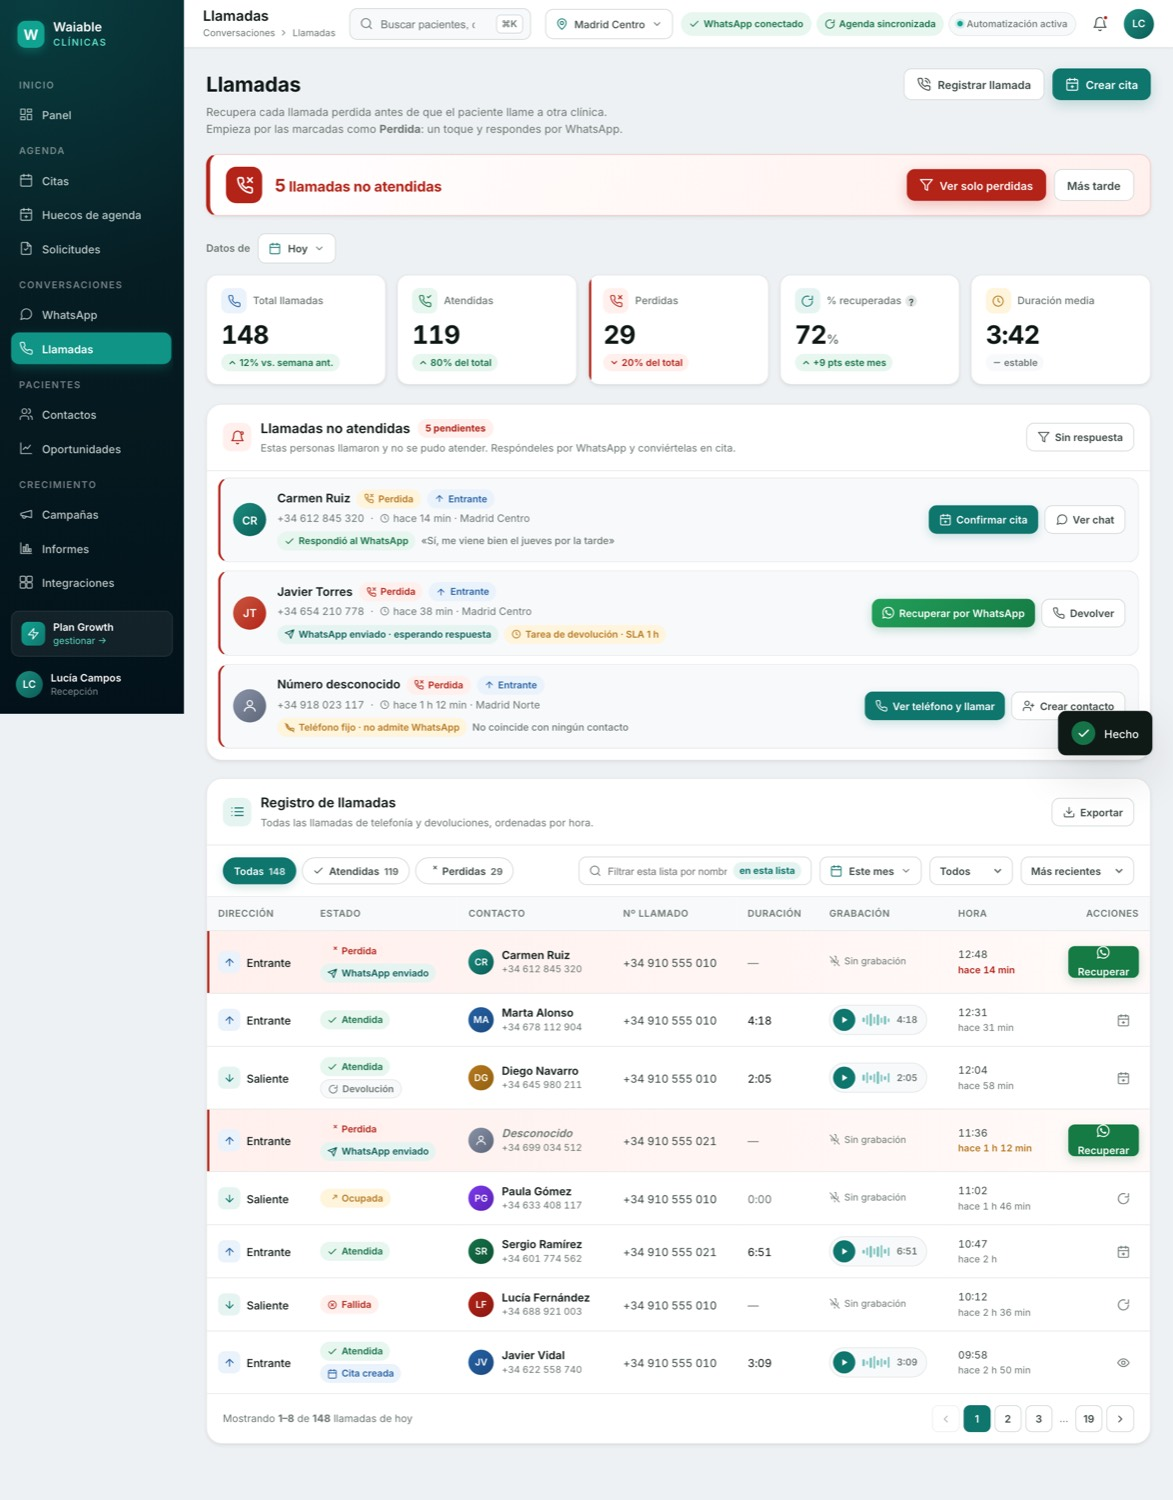
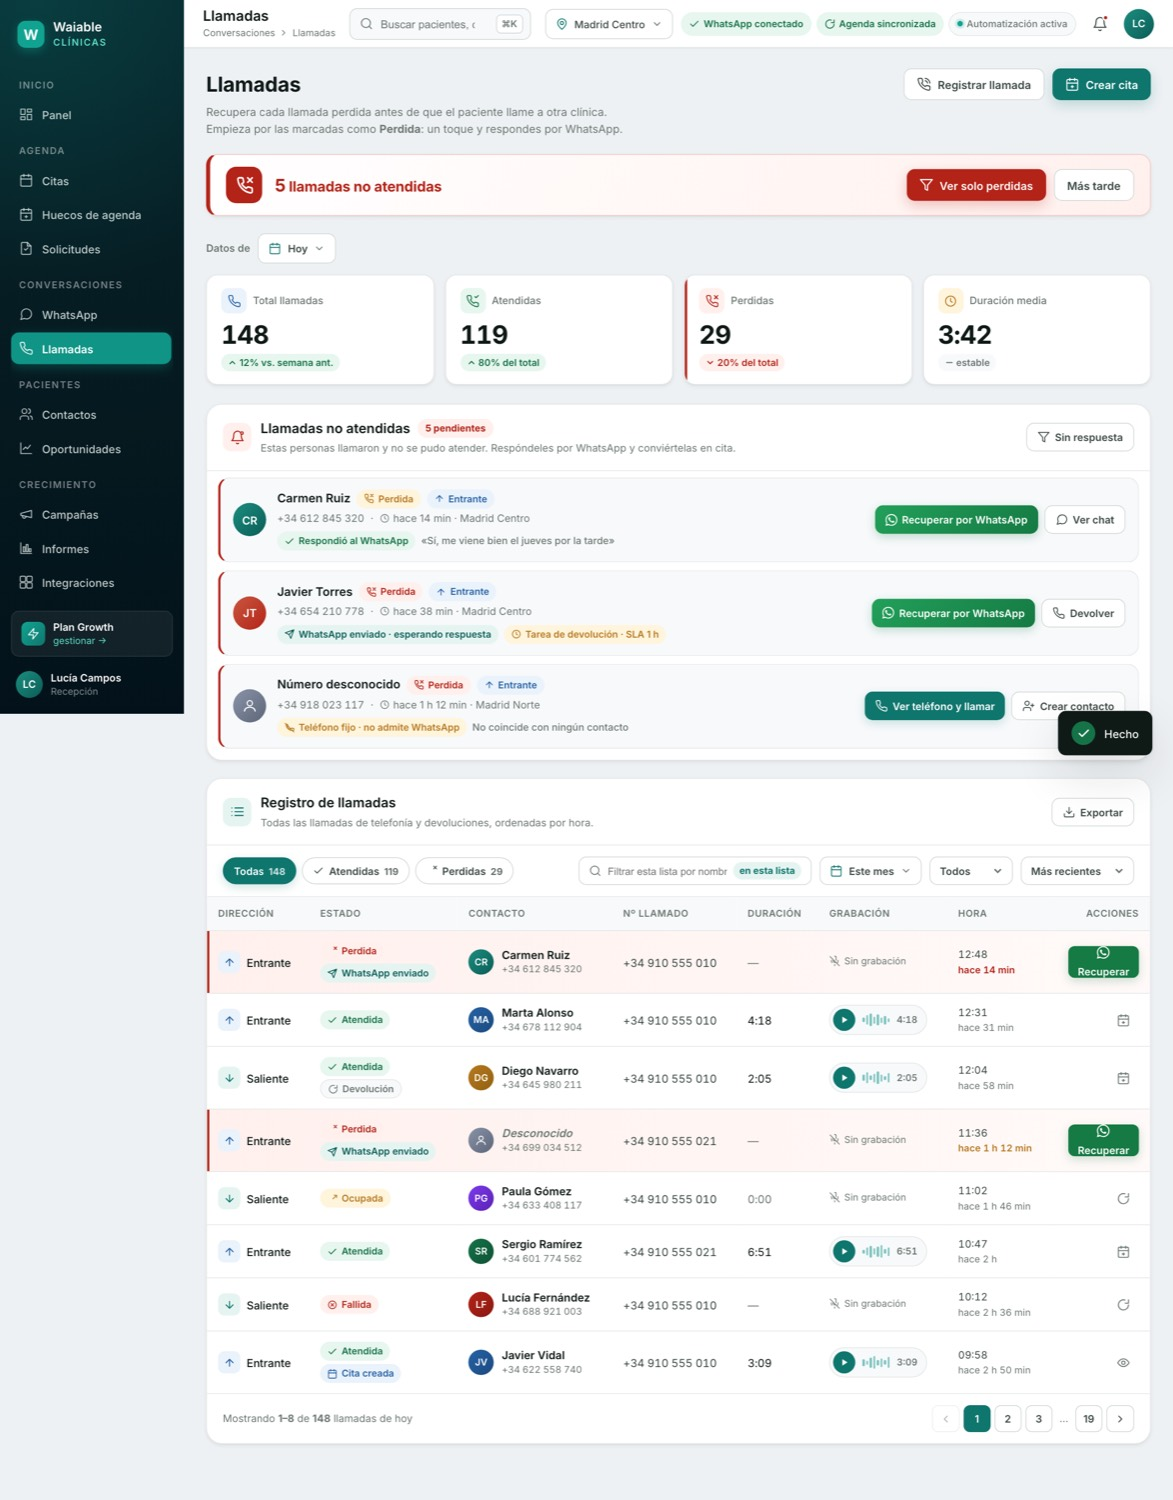
Revision pantallas 01/06 OKI: Llamadas (quitar Confirmar cita->Recuperar por WhatsApp en movil, eliminar KPI '% recuperadas', grid 4 cols); Informes (barra superior blanca coherente con el resto); Config Agenda (quitar pestana Clinica, ya esta el desplegable de sede); Config Usuarios (quitar leyenda

diff --git a/crm/llamadas.html b/crm/llamadas.html
@@ -173,7 +173,7 @@ a{color:inherit;text-decoration:none}
 .btn-pill-light:hover{box-shadow:var(--shadow-sm)}
 
 /* ---------- KPIs ---------- */
-.kpi-grid{display:grid;grid-template-columns:repeat(5,1fr);gap:14px;margin-bottom:24px}
+.kpi-grid{display:grid;grid-template-columns:repeat(4,1fr);gap:14px;margin-bottom:24px}
 .kpi{
   background:var(--surface);border:1px solid var(--line);border-radius:var(--radius);padding:16px 18px;
   box-shadow:var(--shadow-sm);transition:transform .16s ease,box-shadow .16s ease;position:relative;overflow:hidden;
@@ -630,17 +630,6 @@ tbody tr.missed td:first-child{box-shadow:inset 3px 0 0 var(--danger)}
 
         <div class="kpi">
           <div class="kpi-top">
-            <div class="kpi-ic" style="background:var(--primary-soft);color:var(--primary)"><svg viewBox="0 0 24 24" fill="none" stroke="currentColor" stroke-width="1.75" stroke-linecap="round" stroke-linejoin="round"><path d="M21 12a9 9 0 1 1-6.2-8.5"/><path d="M21 3v6h-6"/></svg></div>
-            <span class="kpi-label">% recuperadas
-              <span class="tip"><span class="q">?</span><span class="tip-box">Porcentaje de llamadas perdidas en las que el paciente respondió al WhatsApp automático o devolvió la llamada y acabó atendido.</span></span>
-            </span>
-          </div>
-          <div class="kpi-val" id="kvRecuperadas">72<small>%</small></div>
-          <span class="kpi-delta delta-up"><svg viewBox="0 0 24 24" fill="none" stroke="currentColor" stroke-width="2.5" stroke-linecap="round" stroke-linejoin="round"><path d="m6 15 6-6 6 6"/></svg>+9 pts este mes</span>
-        </div>
-
-        <div class="kpi">
-          <div class="kpi-top">
             <div class="kpi-ic" style="background:var(--warning-soft);color:var(--warning)"><svg viewBox="0 0 24 24" fill="none" stroke="currentColor" stroke-width="1.75" stroke-linecap="round" stroke-linejoin="round"><circle cx="12" cy="12" r="9"/><path d="M12 7v5l3 2"/></svg></div>
             <span class="kpi-label">Duración media</span>
           </div>
@@ -688,9 +677,9 @@ tbody tr.missed td:first-child{box-shadow:inset 3px 0 0 var(--danger)}
               </div>
             </div>
             <div class="ac-actions">
-              <button class="btn-sm p" onclick="toast('Creando cita para Carmen Ruiz…')">
-                <svg viewBox="0 0 24 24" fill="none" stroke="currentColor" stroke-width="1.75" stroke-linecap="round" stroke-linejoin="round"><rect x="3" y="4" width="18" height="18" rx="2"/><path d="M16 2v4M8 2v4M3 10h18M12 14v4M10 16h4"/></svg>
-                Confirmar cita
+              <button class="btn-sm wa btn-recover" onclick="recoverCard(this)" aria-label="Recuperar a Carmen Ruiz por WhatsApp">
+                <svg viewBox="0 0 24 24" fill="currentColor" stroke="none"><path d="M.057 24l1.687-6.163a11.867 11.867 0 0 1-1.587-5.945C.16 5.335 5.495 0 12.05 0a11.82 11.82 0 0 1 8.413 3.488 11.82 11.82 0 0 1 3.48 8.414c-.003 6.557-5.338 11.892-11.893 11.892a11.9 11.9 0 0 1-5.688-1.448L.057 24zm6.597-3.807c1.676.995 3.276 1.591 5.392 1.592 5.448 0 9.886-4.434 9.889-9.885.002-5.462-4.415-9.89-9.881-9.892-5.452 0-9.887 4.434-9.889 9.884a9.82 9.82 0 0 0 1.523 5.262l-.999 3.648 3.665-.961zm11.387-5.464c-.074-.124-.272-.198-.57-.347-.297-.149-1.758-.868-2.031-.967-.272-.099-.47-.149-.669.149-.198.297-.768.967-.941 1.165-.173.198-.347.223-.644.074-.297-.149-1.255-.462-2.39-1.475-.883-.788-1.48-1.761-1.653-2.059-.173-.297-.018-.458.13-.606.134-.133.297-.347.446-.521.151-.172.2-.296.3-.495.099-.198.05-.372-.025-.521-.075-.148-.669-1.611-.916-2.206-.242-.579-.487-.501-.669-.51l-.57-.01c-.198 0-.52.074-.792.372s-1.04 1.016-1.04 2.479 1.065 2.876 1.213 3.074c.149.198 2.095 3.2 5.076 4.487.709.306 1.263.489 1.694.626.712.226 1.36.194 1.872.118.571-.085 1.758-.719 2.006-1.413.248-.695.248-1.29.173-1.414z"/></svg>
+                Recuperar por WhatsApp
               </button>
               <button class="btn-sm s" onclick="toast('Abriendo conversación de WhatsApp…')">
                 <svg viewBox="0 0 24 24" fill="none" stroke="currentColor" stroke-width="1.75" stroke-linecap="round" stroke-linejoin="round"><path d="M21 11.5a8.38 8.38 0 0 1-.9 3.8 8.5 8.5 0 0 1-7.6 4.7 8.38 8.38 0 0 1-3.8-.9L3 21l1.9-5.7a8.38 8.38 0 0 1-.9-3.8 8.5 8.5 0 0 1 4.7-7.6 8.38 8.38 0 0 1 3.8-.9h.5a8.48 8.48 0 0 1 8 8z"/></svg>
@@ -1147,6 +1136,7 @@ tbody tr.missed td:first-child{box-shadow:inset 3px 0 0 var(--danger)}
 
   // Sube el KPI "% recuperadas" visualmente (feedback de progreso)
   function bumpKpi(){
+    return; // KPI '% recuperadas' eliminado
     var el = document.querySelectorAll('.kpi-val')[3];
     if (!el) return;
     var n = parseInt(el.textContent, 10);
@@ -1201,7 +1191,7 @@ tbody tr.missed td:first-child{box-shadow:inset 3px 0 0 var(--danger)}
         menu.classList.remove('open');
         var data=CALL_KPIS[k]; if(!data) return;
         var set=function(id,v){var el=document.getElementById(id); if(el)el.innerHTML=v;};
-        set('kvTotal',data.t); set('kvAtendidas',data.a); set('kvPerdidas',data.p); set('kvRecuperadas',data.r); set('kvDuracion',data.d);
+        set('kvTotal',data.t); set('kvAtendidas',data.a); set('kvPerdidas',data.p); set('kvDuracion',data.d);
         toast('Mostrando datos de: '+k);
       });
     });

diff --git a/ajustes/usuarios.html b/ajustes/usuarios.html
@@ -551,10 +551,6 @@ svg{display:block}
           <p class="subtitle">Suma a tu equipo de recepción para gestionar agenda, llamadas y WhatsApp, y asigna a cada persona el rol con los permisos justos para su trabajo.</p>
         </div>
         <div class="page-head-actions">
-          <a href="#invite" class="btn btn-outline" onclick="event.preventDefault();focusInvite()">
-            <svg viewBox="0 0 24 24" fill="none" stroke="currentColor" stroke-width="2" stroke-linecap="round" stroke-linejoin="round"><path d="M12 5v14M5 12h14"/></svg>
-            Ir al formulario
-          </a>
           <button class="btn btn-primary btn-lg" onclick="openInviteModal()">
             <svg viewBox="0 0 24 24" fill="none" stroke="currentColor" stroke-width="2" stroke-linecap="round" stroke-linejoin="round"><path d="M16 21v-2a4 4 0 0 0-4-4H6a4 4 0 0 0-4 4v2"/><circle cx="9" cy="7" r="4"/><line x1="19" y1="8" x2="19" y2="14"/><line x1="22" y1="11" x2="16" y2="11"/></svg>
             Invitar miembro
@@ -947,26 +943,6 @@ svg{display:block}
                 Enviar invitación
               </button>
             </form>
-          </div>
-              <div class="ri">
-                <div class="ri-ico ico-admin">
-                  <svg viewBox="0 0 24 24" fill="none" stroke="currentColor" stroke-width="2" stroke-linecap="round" stroke-linejoin="round"><path d="M12 22s8-4 8-10V5l-8-3-8 3v7c0 6 8 10 8 10z"/></svg>
-                </div>
-                <div>
-                  <div class="ri-name">Administrador</div>
-                  <div class="ri-desc">Todo lo del usuario, más invitar y gestionar al equipo, los ajustes de la clínica y la automatización.</div>
-                </div>
-              </div>
-              <div class="ri">
-                <div class="ri-ico ico-user">
-                  <svg viewBox="0 0 24 24" fill="none" stroke="currentColor" stroke-width="2" stroke-linecap="round" stroke-linejoin="round"><path d="M20 21v-2a4 4 0 0 0-4-4H8a4 4 0 0 0-4 4v2"/><circle cx="12" cy="7" r="4"/></svg>
-                </div>
-                <div>
-                  <div class="ri-name">Usuario</div>
-                  <div class="ri-desc">El día a día de recepción: agenda, llamadas, WhatsApp y pacientes. Sin acceso a facturación ni al equipo.</div>
-                </div>
-              </div>
-            </div>
           </div>
 
         </aside>

diff --git a/ajustes/agenda-horarios.html b/ajustes/agenda-horarios.html
@@ -437,9 +437,8 @@ select:focus,input:focus{outline:none;border-color:var(--primary);box-shadow:0 0
         </div>
       </div>
 
-      <!-- TABS: solo Clínica y Agenda + selector de sede -->
+      <!-- TABS: Agenda y horarios + selector de sede -->
       <div class="tabs" role="tablist" aria-label="Secciones de ajustes">
-        <button class="tab" role="tab" aria-selected="false" type="button"><svg viewBox="0 0 24 24" fill="none" stroke="currentColor" stroke-width="1.75" stroke-linecap="round" stroke-linejoin="round"><path d="M3 21h18M5 21V8l7-5 7 5v13"/></svg>Clínica</button>
         <button class="tab" role="tab" aria-selected="true" type="button"><svg viewBox="0 0 24 24" fill="none" stroke="currentColor" stroke-width="1.75" stroke-linecap="round" stroke-linejoin="round"><rect x="3" y="4" width="18" height="18" rx="2"/><path d="M16 2v4M8 2v4M3 10h18"/></svg>Agenda y horarios</button>
         <button class="site-sel" style="margin-left:auto;align-self:center" aria-label="Seleccionar sede">
           <svg viewBox="0 0 24 24" fill="none" stroke="currentColor" stroke-width="1.75" stroke-linecap="round" stroke-linejoin="round"><path d="M21 10c0 7-9 13-9 13s-9-6-9-13a9 9 0 0 1 18 0z"/><circle cx="12" cy="10" r="3"/></svg>

diff --git a/clinicas/informes.html b/clinicas/informes.html
@@ -61,7 +61,7 @@ button{font-family:inherit;cursor:pointer;border:none;background:none}
 
 /* ===== TOPBAR ===== */
 .main{display:flex;flex-direction:column;min-width:0}
-.topbar{position:sticky;top:0;z-index:50;display:flex;align-items:center;gap:16px;padding:14px 28px;background:rgba(238,241,244,.85);backdrop-filter:blur(12px);border-bottom:1px solid var(--line)}
+.topbar{position:sticky;top:0;z-index:50;display:flex;align-items:center;gap:16px;padding:0 28px;height:60px;background:var(--surface);box-shadow:var(--shadow-sm);border-bottom:1px solid var(--line)}
 .tb-crumb{display:flex;align-items:center;gap:8px;font-size:12.5px;color:var(--muted)}
 .tb-crumb b{color:var(--text-2);font-weight:600}
 .search{flex:1;max-width:440px;position:relative}
